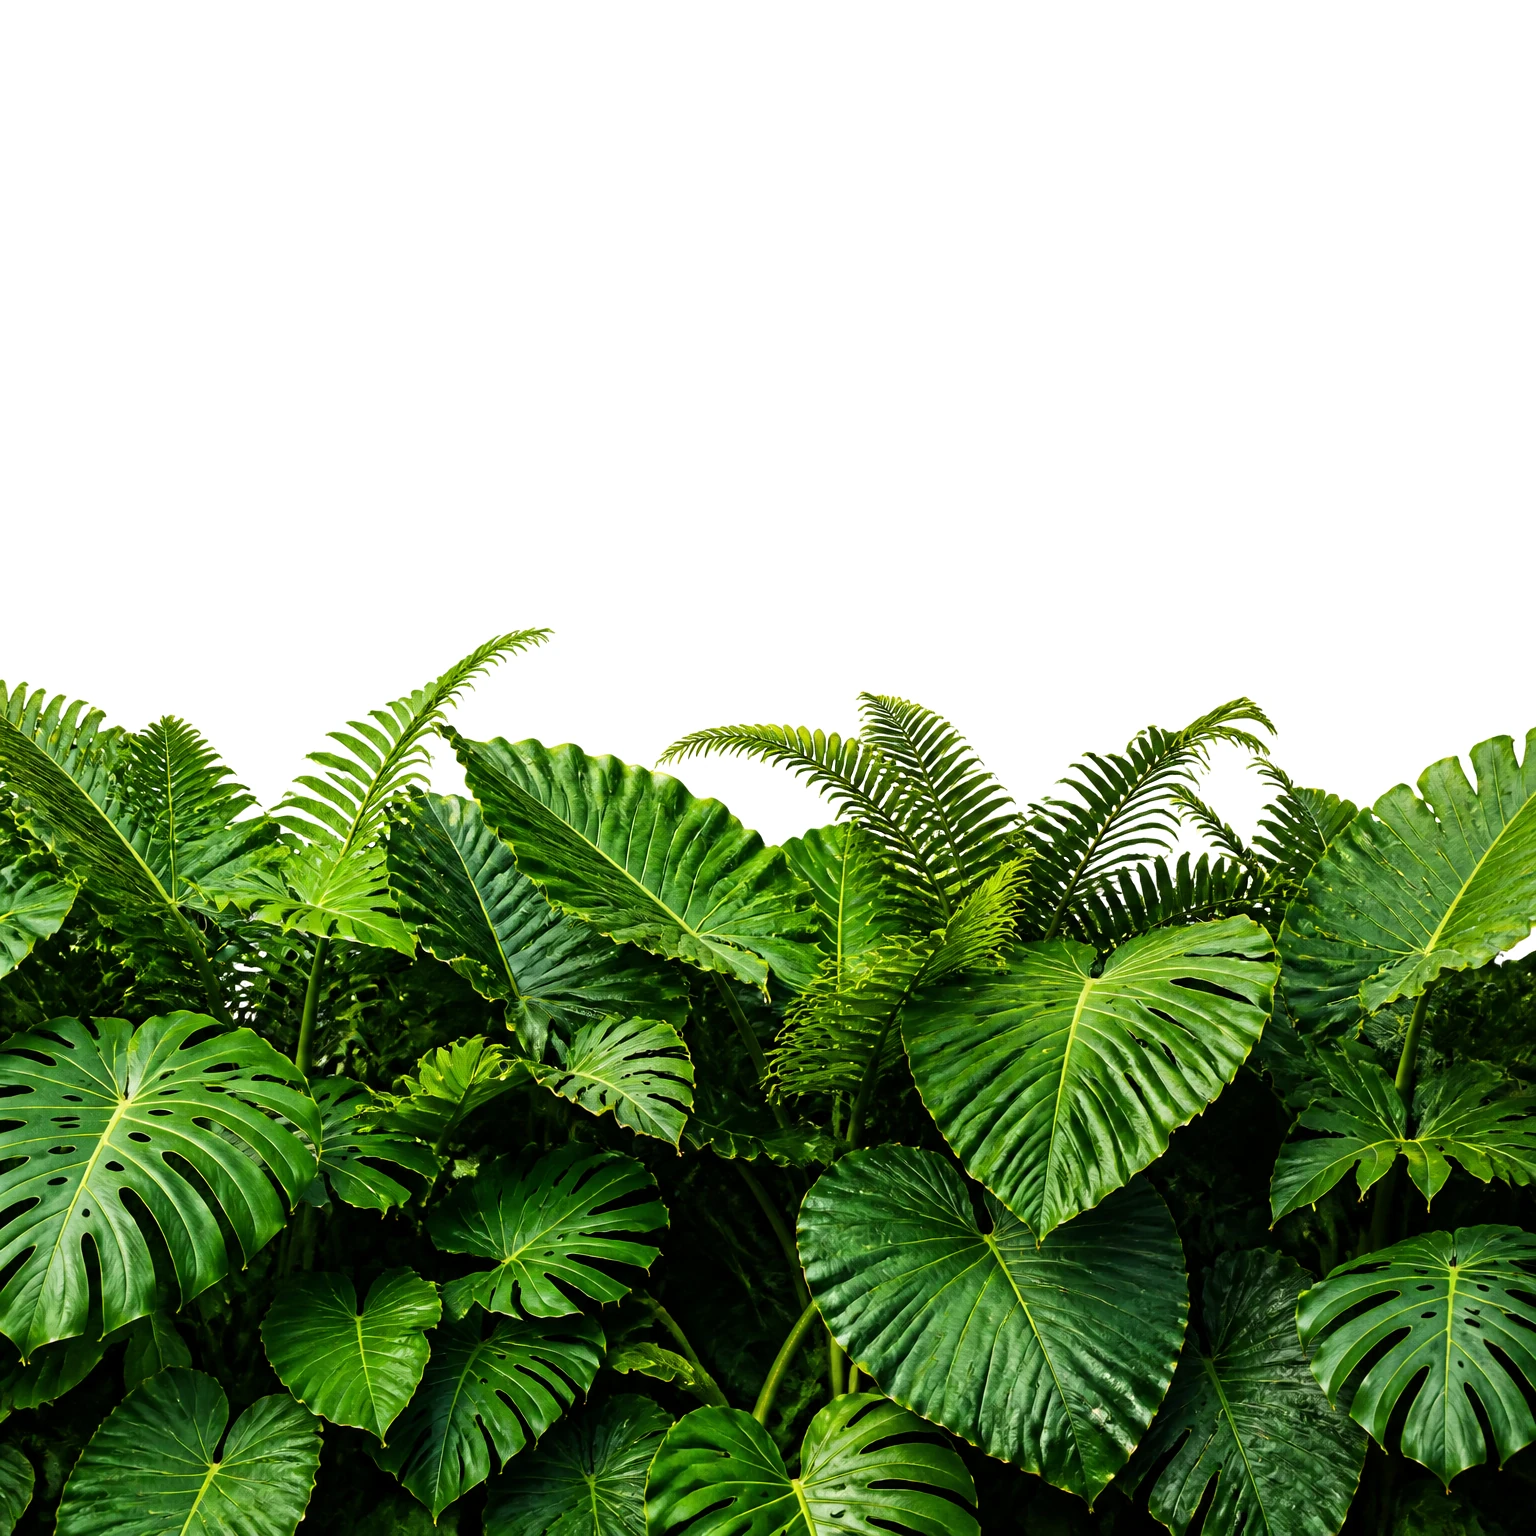
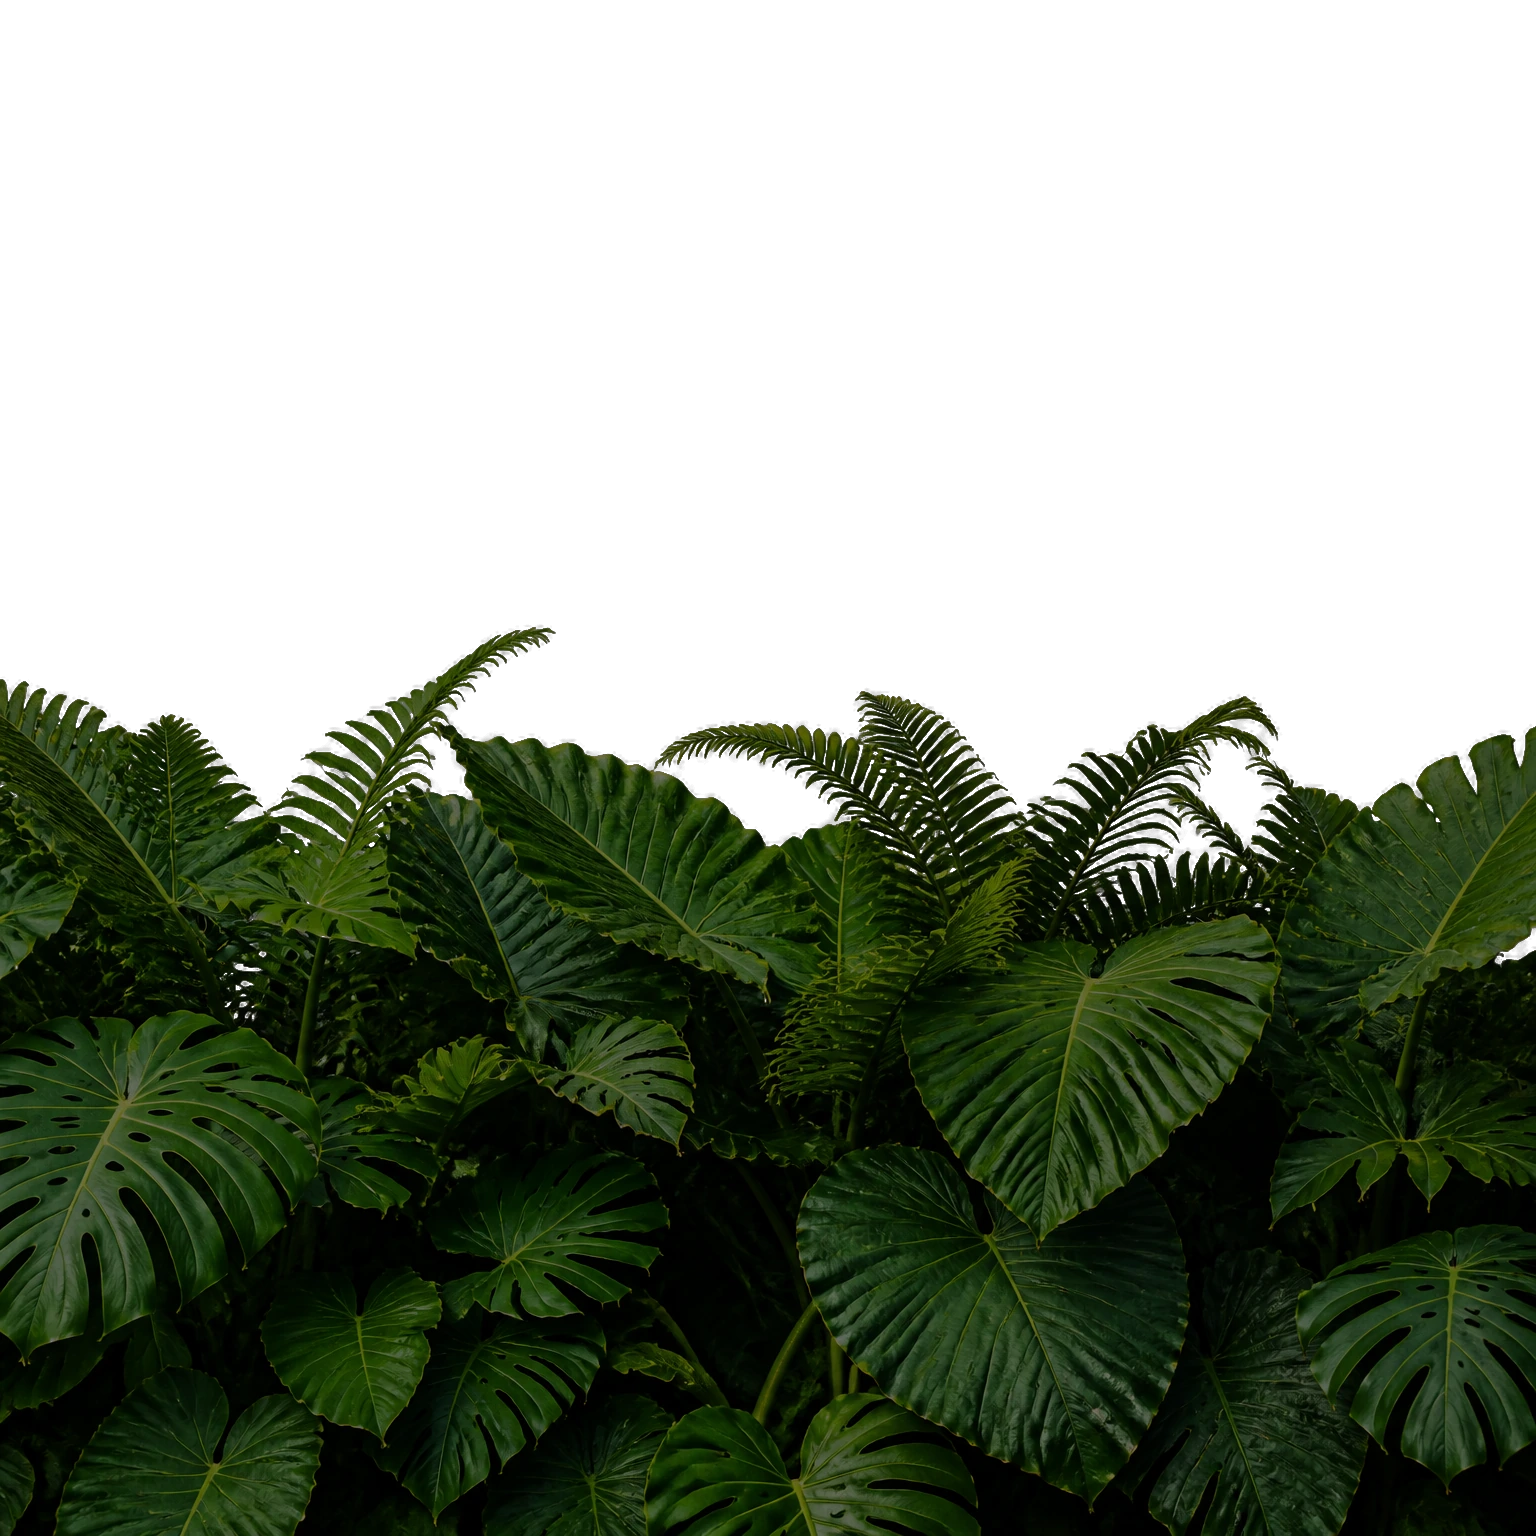
feat: open the sides, redo the far plate, and make the undergrowth solid
Three things the owner called out, plus one of mine reverted.

THE SIDES. plate--mid was a pair of big black palm silhouettes flanking the
frame — "I need all that gone" — so it is deleted outright rather than
re-rolled. z indexes close the gap and the mobile scope loses its rate, both
of which stack-depth enforces; home-hero and frames counted the layers and now
count the new set.

THE FAR PLATE. Re-rolled at medium, prompting for structure in the light
rather than a glow: distinct shafts broken up by branches, motes in the air,
canopy still legible behind the beam, and explicitly no heavy dark foliage
columns at the edges. The old one was soft exactly where the shaft is, which
is the part of the frame the eye goes to.

THE UNDERGROWTH IS NO LONGER SEE-THROUGH. Multiply let the forest show
straight through a bank of solid broad leaves in the immediate foreground —
the owner: "don't make it see-through". It now carries a real alpha matte
keyed off its white ground, distance-from-WHITE rather than luminance, because
a luminance key punches holes through sunlit leaf faces. The near fronds keep
multiply: thousands of thin semi-transparent edges are the case multiply
handles best and matting handles worst.

Being opaque made it far too bright, since multiply had been darkening it. It
is graded to the scene's own understorey (24.8 against 31.7) — it is the
nearest thing in frame and belongs in shadow. That also recovered the hero
[…]

diff --git a/src/styles/stack.css b/src/styles/stack.css
@@ -234,19 +234,26 @@
    and which is the exact move that makes a hero look sprayed-on. */
 .hero .plate--fog { opacity: calc(1 - clamp(0, calc(var(--p, 0) / 0.62), 1) * 0.62); }
 
-/* The floor deepens as the canopy clears, so the frame gains contrast top to
-   bottom rather than simply getting brighter overall. */
-.hero .plate--low { opacity: calc(0.72 + clamp(0, calc(var(--p, 0) / 0.62), 1) * 0.28); }
-.hero .plate--mid  { z-index: 3; --rate: -190; }
-.hero .plate--name { z-index: 4; --rate: -250; display: grid; place-content: center; }
-.hero .plate--near { z-index: 5; --rate: -350; }
+/* NO floor-deepening pass here. One was tried — .plate--low ramping 0.72 -> 1
+   so the frame gained contrast top to bottom — and the owner rejected it on
+   sight: the bottom just went muddy. The fog thinning above is the whole of
+   the light change; darkening the other end to "balance" it is the kind of
+   symmetry that reads as grading rather than as light. */
+/* plate--mid is GONE. It was a pair of big black palm silhouettes flanking the
+   frame, and the owner wanted the sides decluttered: "the side still has big
+   black silhouettes of palm trees, I need all that gone." Removing it rather
+   than re-rolling it also buys back a layer of clutter for nothing. The z
+   indexes below close the gap, because stack-depth.test.ts requires them
+   contiguous as well as ordered. */
+.hero .plate--name { z-index: 3; --rate: -250; display: grid; place-content: center; }
+.hero .plate--near { z-index: 4; --rate: -350; }
 /* The undergrowth sits between the nearest photographic layer and the floor
    scrim, and climbs faster than the name plate (-250), which is the whole
    point: the wordmark sinks behind it instead of everything drifting together.
    --low moves to z7 and -520 to keep the depth order strictly increasing,
    which tests/stack-depth.test.ts enforces along with contiguous z. */
-.hero .plate--shrub { z-index: 6; --rate: -440; }
-.hero .plate--low  { z-index: 7; --rate: -520; pointer-events: none; }
+.hero .plate--shrub { z-index: 5; --rate: -440; }
+.hero .plate--low  { z-index: 6; --rate: -520; pointer-events: none; }
 
 /* Only .plate--far is an opaque photograph. Everything above it ships opaque
    on pure white and is composited arithmetically: result = backdrop x source,
@@ -260,23 +267,24 @@
    will-change: transform, which creates a stacking context, so a blend on the
    frame would composite only against its own plate and do nothing. Same
    pattern as the working precedent at workshop.css:24. */
-.hero .plate--mid,
-.hero .plate--near,
-.hero .plate--shrub { mix-blend-mode: multiply; }
+/* The near fronds still multiply — thousands of thin semi-transparent edges
+   are exactly what multiply handles best. The UNDERGROWTH does not: it is a
+   solid bank of broad leaves in the immediate foreground, and multiply made
+   the forest show straight through it, which the owner called out as looking
+   see-through and wrong. It carries a real alpha matte instead, keyed off its
+   white ground, so its leaves are opaque objects. */
+.hero .plate--near { mix-blend-mode: multiply; }
 
 /* .frame paints var(--bg-deep) so a missing image reads as a dark labelled
    placeholder. Under multiply an opaque dark ground would crush the whole
    hero to black, so these two frames stay transparent. */
-.hero .plate--mid .frame,
 .hero .plate--near .frame,
 .hero .plate--shrub .frame { background: transparent; }
 
 /* While a slot is still empty the labelled placeholder must stay legible, so
    the blend switches off for that plate rather than multiplying a dashed
    border into the forest. Restores itself the moment a real file lands. */
-.hero .plate--mid:has(.frame.is-missing),
-.hero .plate--near:has(.frame.is-missing),
-.hero .plate--shrub:has(.frame.is-missing) { mix-blend-mode: normal; }
+.hero .plate--near:has(.frame.is-missing) { mix-blend-mode: normal; }
 
 .hero-wordmark {
   font-family: var(--font-display);
@@ -337,10 +345,10 @@
   .hero-wordmark { font-size: 22vw; white-space: normal; max-width: 7ch; text-align: left; }
   .hero .plate--far  { --rate: -36; }
   .hero .plate--fog  { --rate: -70; }
-  .hero .plate--mid  { --rate: -110; }
   .hero .plate--name { --rate: -150; place-content: center start; padding-inline: var(--gutter); }
   .hero .plate--near { --rate: -215; }
-  .hero .plate--low  { --rate: -270; }
+  .hero .plate--shrub { --rate: -270; }
+  .hero .plate--low  { --rate: -320; }
   #ridge .plate--back  { --rate: -54; }
   #ridge .plate--haze  { --rate: -96; }
   #ridge .plate--copy  { --rate: -120; }

diff --git a/tests/frames.test.ts b/tests/frames.test.ts
@@ -59,11 +59,12 @@ describe('full-bleed plate frames', () => {
 describe('the guard actually reaches the pages it claims to', () => {
   // index.html is the page that had the worst measured misalignment AND the
   // most aria-hidden plates, so it is the one a loose pattern fails on.
-  it('sees all six of index.html plate figures, not just the one without aria-hidden', () => {
+  it('sees all five of index.html plate figures, not just the one without aria-hidden', () => {
     const html = readFileSync('index.html', 'utf8');
-    // Six: the hero's four photograph plates (plate--far, plate--mid,
-    // plate--near and plate--shrub — plate--fog and plate--low carry no frame
-    // of their own, they are CSS atmosphere) plus the thesis stack's two.
-    expect(html.match(PLATE_FIGURE) ?? []).toHaveLength(6);
+    // Five: the hero's three photograph plates (plate--far, plate--near and
+    // plate--shrub — plate--fog and plate--low are CSS atmosphere with no
+    // frame of their own) plus the thesis stack's two. plate--mid was removed
+    // with its black palm silhouettes.
+    expect(html.match(PLATE_FIGURE) ?? []).toHaveLength(5);
   });
 });

diff --git a/tests/home-hero.test.ts b/tests/home-hero.test.ts
@@ -21,7 +21,11 @@ describe('Home hero', () => {
   });
 
   it('builds the six hero layers', () => {
-    for (const layer of ['far', 'fog', 'mid', 'name', 'near', 'low']) {
+    // plate--mid is deliberately gone: it was a pair of black palm silhouettes
+    // flanking the frame and the owner asked for the sides decluttered.
+    // plate--shrub, the undergrowth the name sinks behind, took its place in
+    // the count.
+    for (const layer of ['far', 'fog', 'name', 'near', 'shrub', 'low']) {
       expect(html).toContain(`plate--${layer}`);
     }
   });
@@ -44,7 +48,7 @@ describe('Home hero', () => {
     // the gaps. It does that by multiply, not by an alpha channel: a cutout
     // of fronds halos, and the previous one measured +24 RGB at the edges.
     const stack = readFileSync('src/styles/stack.css', 'utf8');
-    expect(stack).toMatch(/\.hero \.plate--near \{[^}]*z-index:\s*5/);
+    expect(stack).toMatch(/\.hero \.plate--near \{[^}]*z-index:\s*4/);
     expect(stack).toMatch(/\.hero \.plate--near \{[^}]*--rate:\s*-350/);
     expect(stack).toMatch(/mix-blend-mode: multiply/);
   });

diff --git a/index.html b/index.html
@@ -59,15 +59,10 @@
 
         <div class="plate plate--fog" aria-hidden="true"></div>
 
-        <div class="plate plate--mid" aria-hidden="true">
-          <figure class="frame" data-label="Hero L3 — jungle-mid">
-            <img src="/assets/img/jungle-mid.webp" alt="" loading="eager" />
-          </figure>
-        </div>
-
         <div class="plate plate--name">
           <h1 class="hero-wordmark" data-edit="hero.title">Yosef Pilip</h1>
         </div>
+
 
         <div class="plate plate--near" aria-hidden="true">
           <figure class="frame" data-label="Hero L5 — jungle-near">
